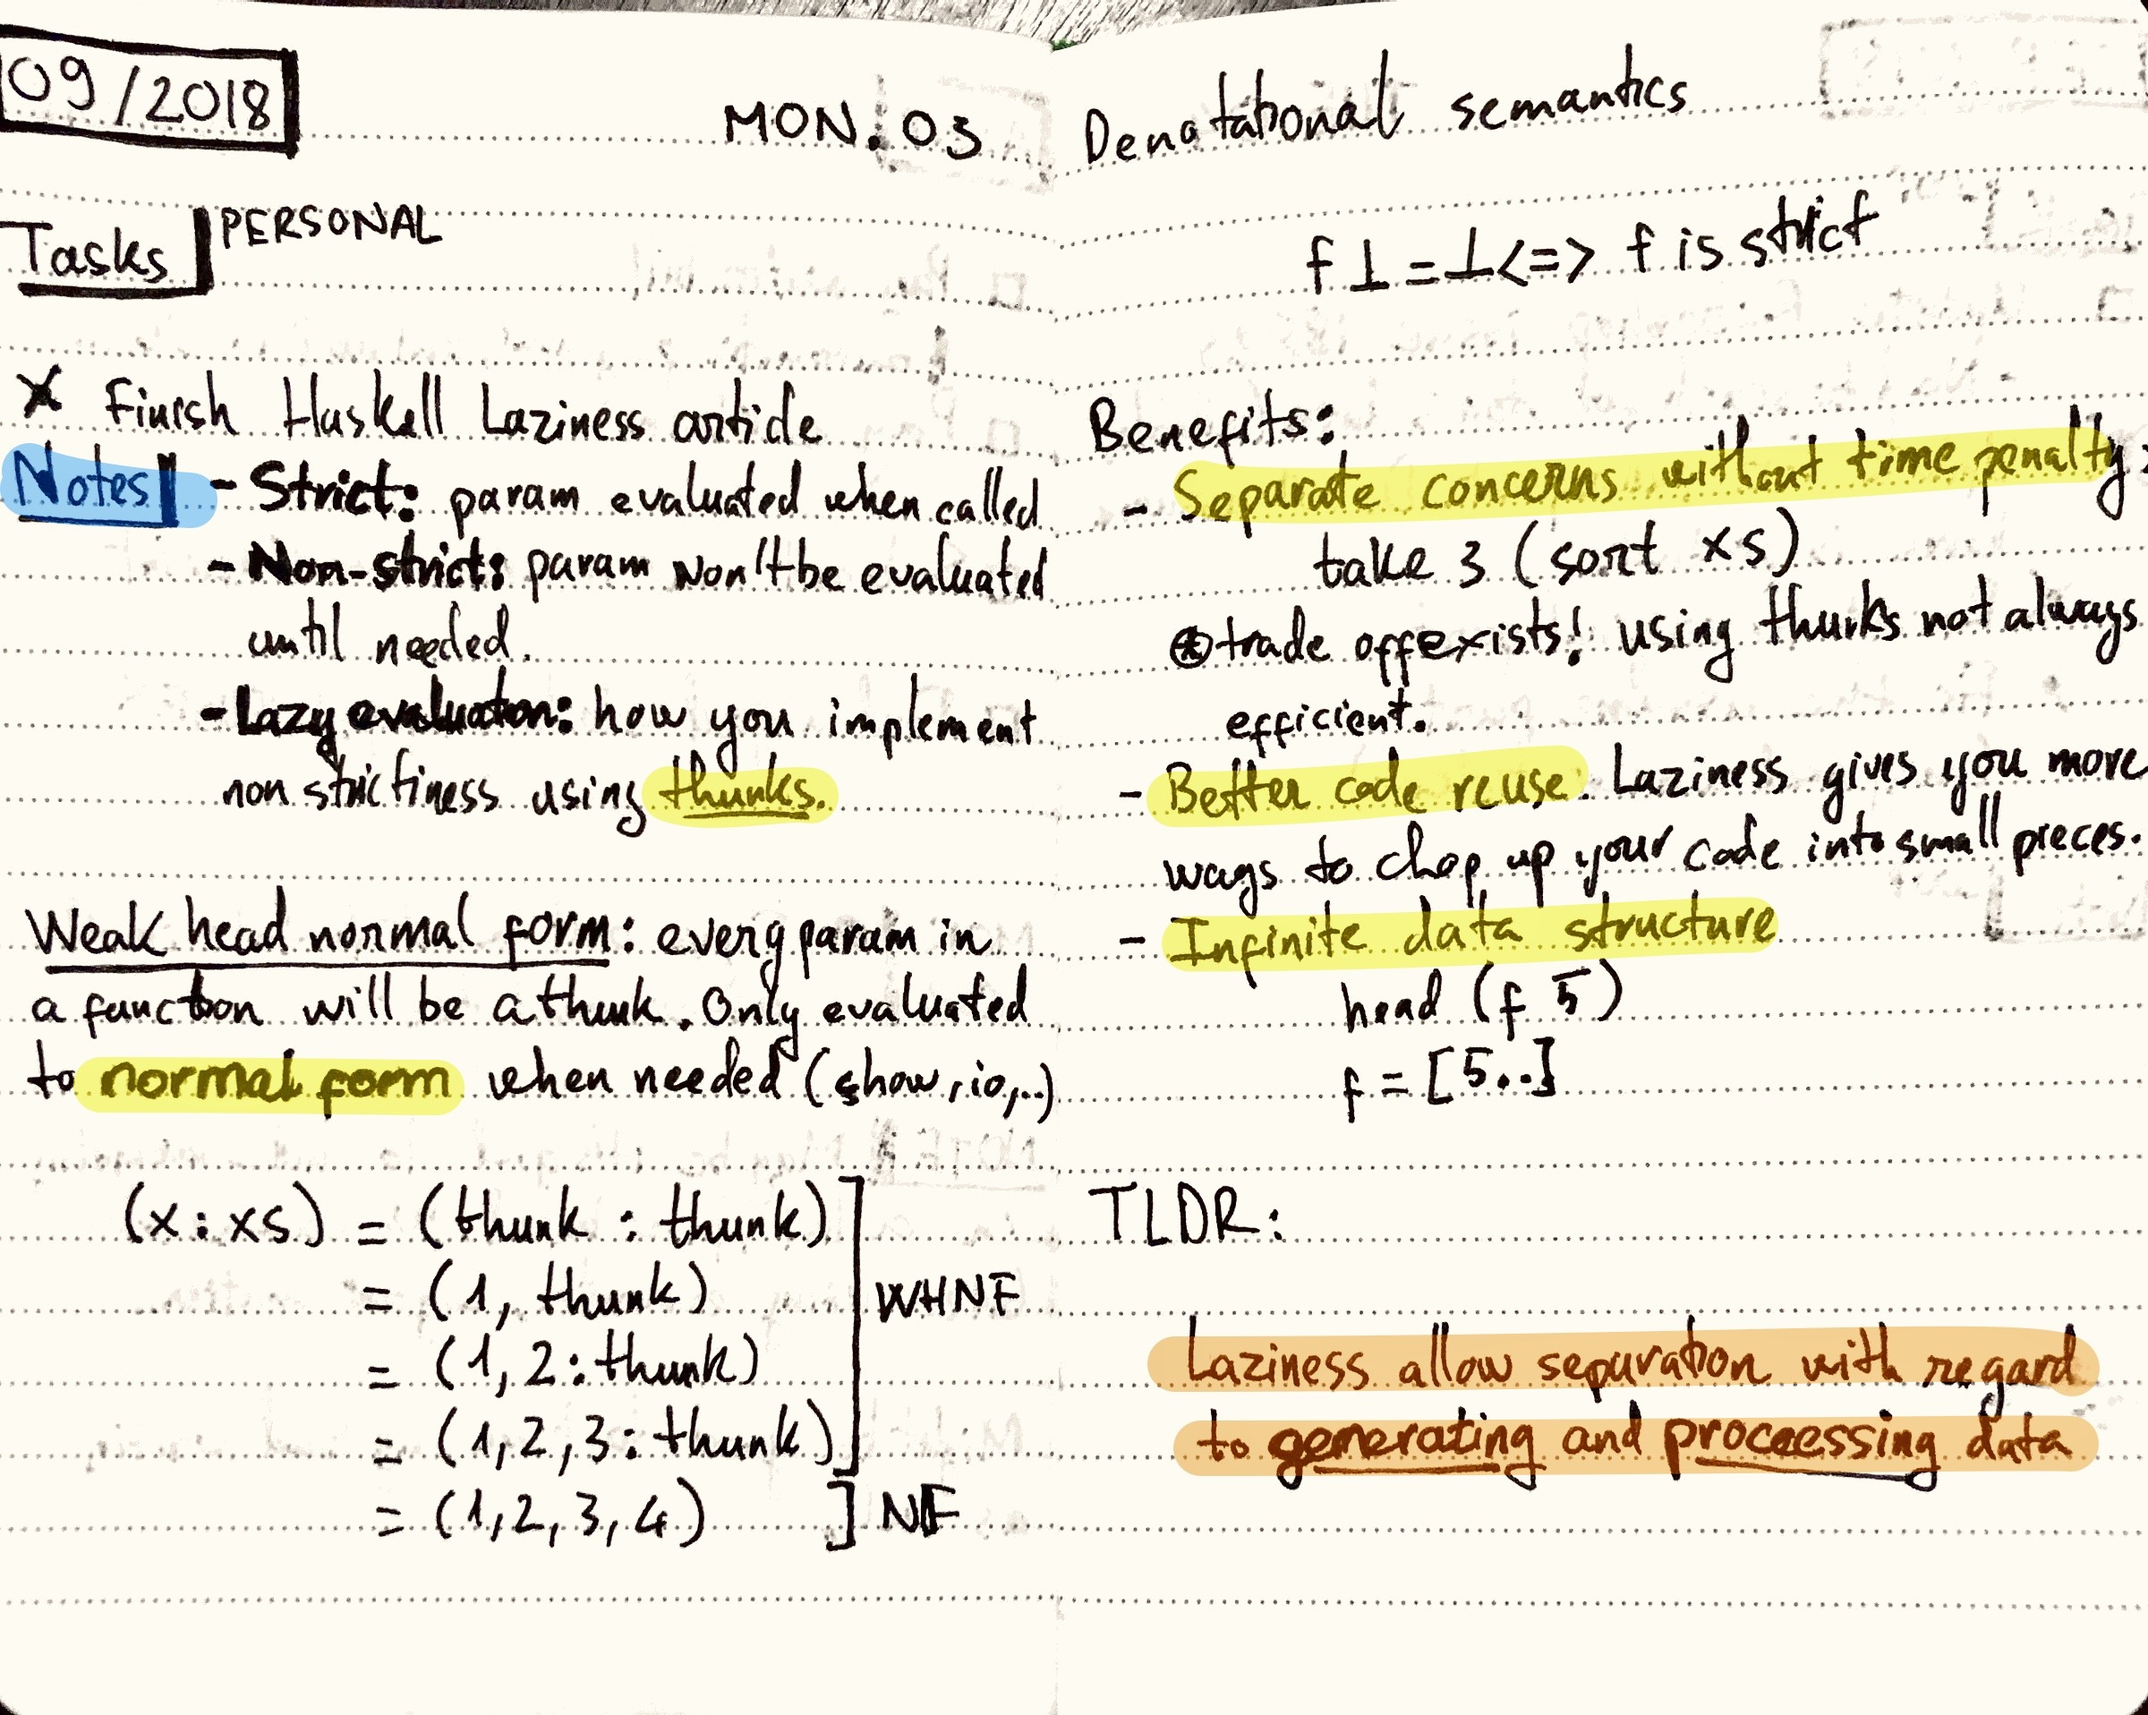
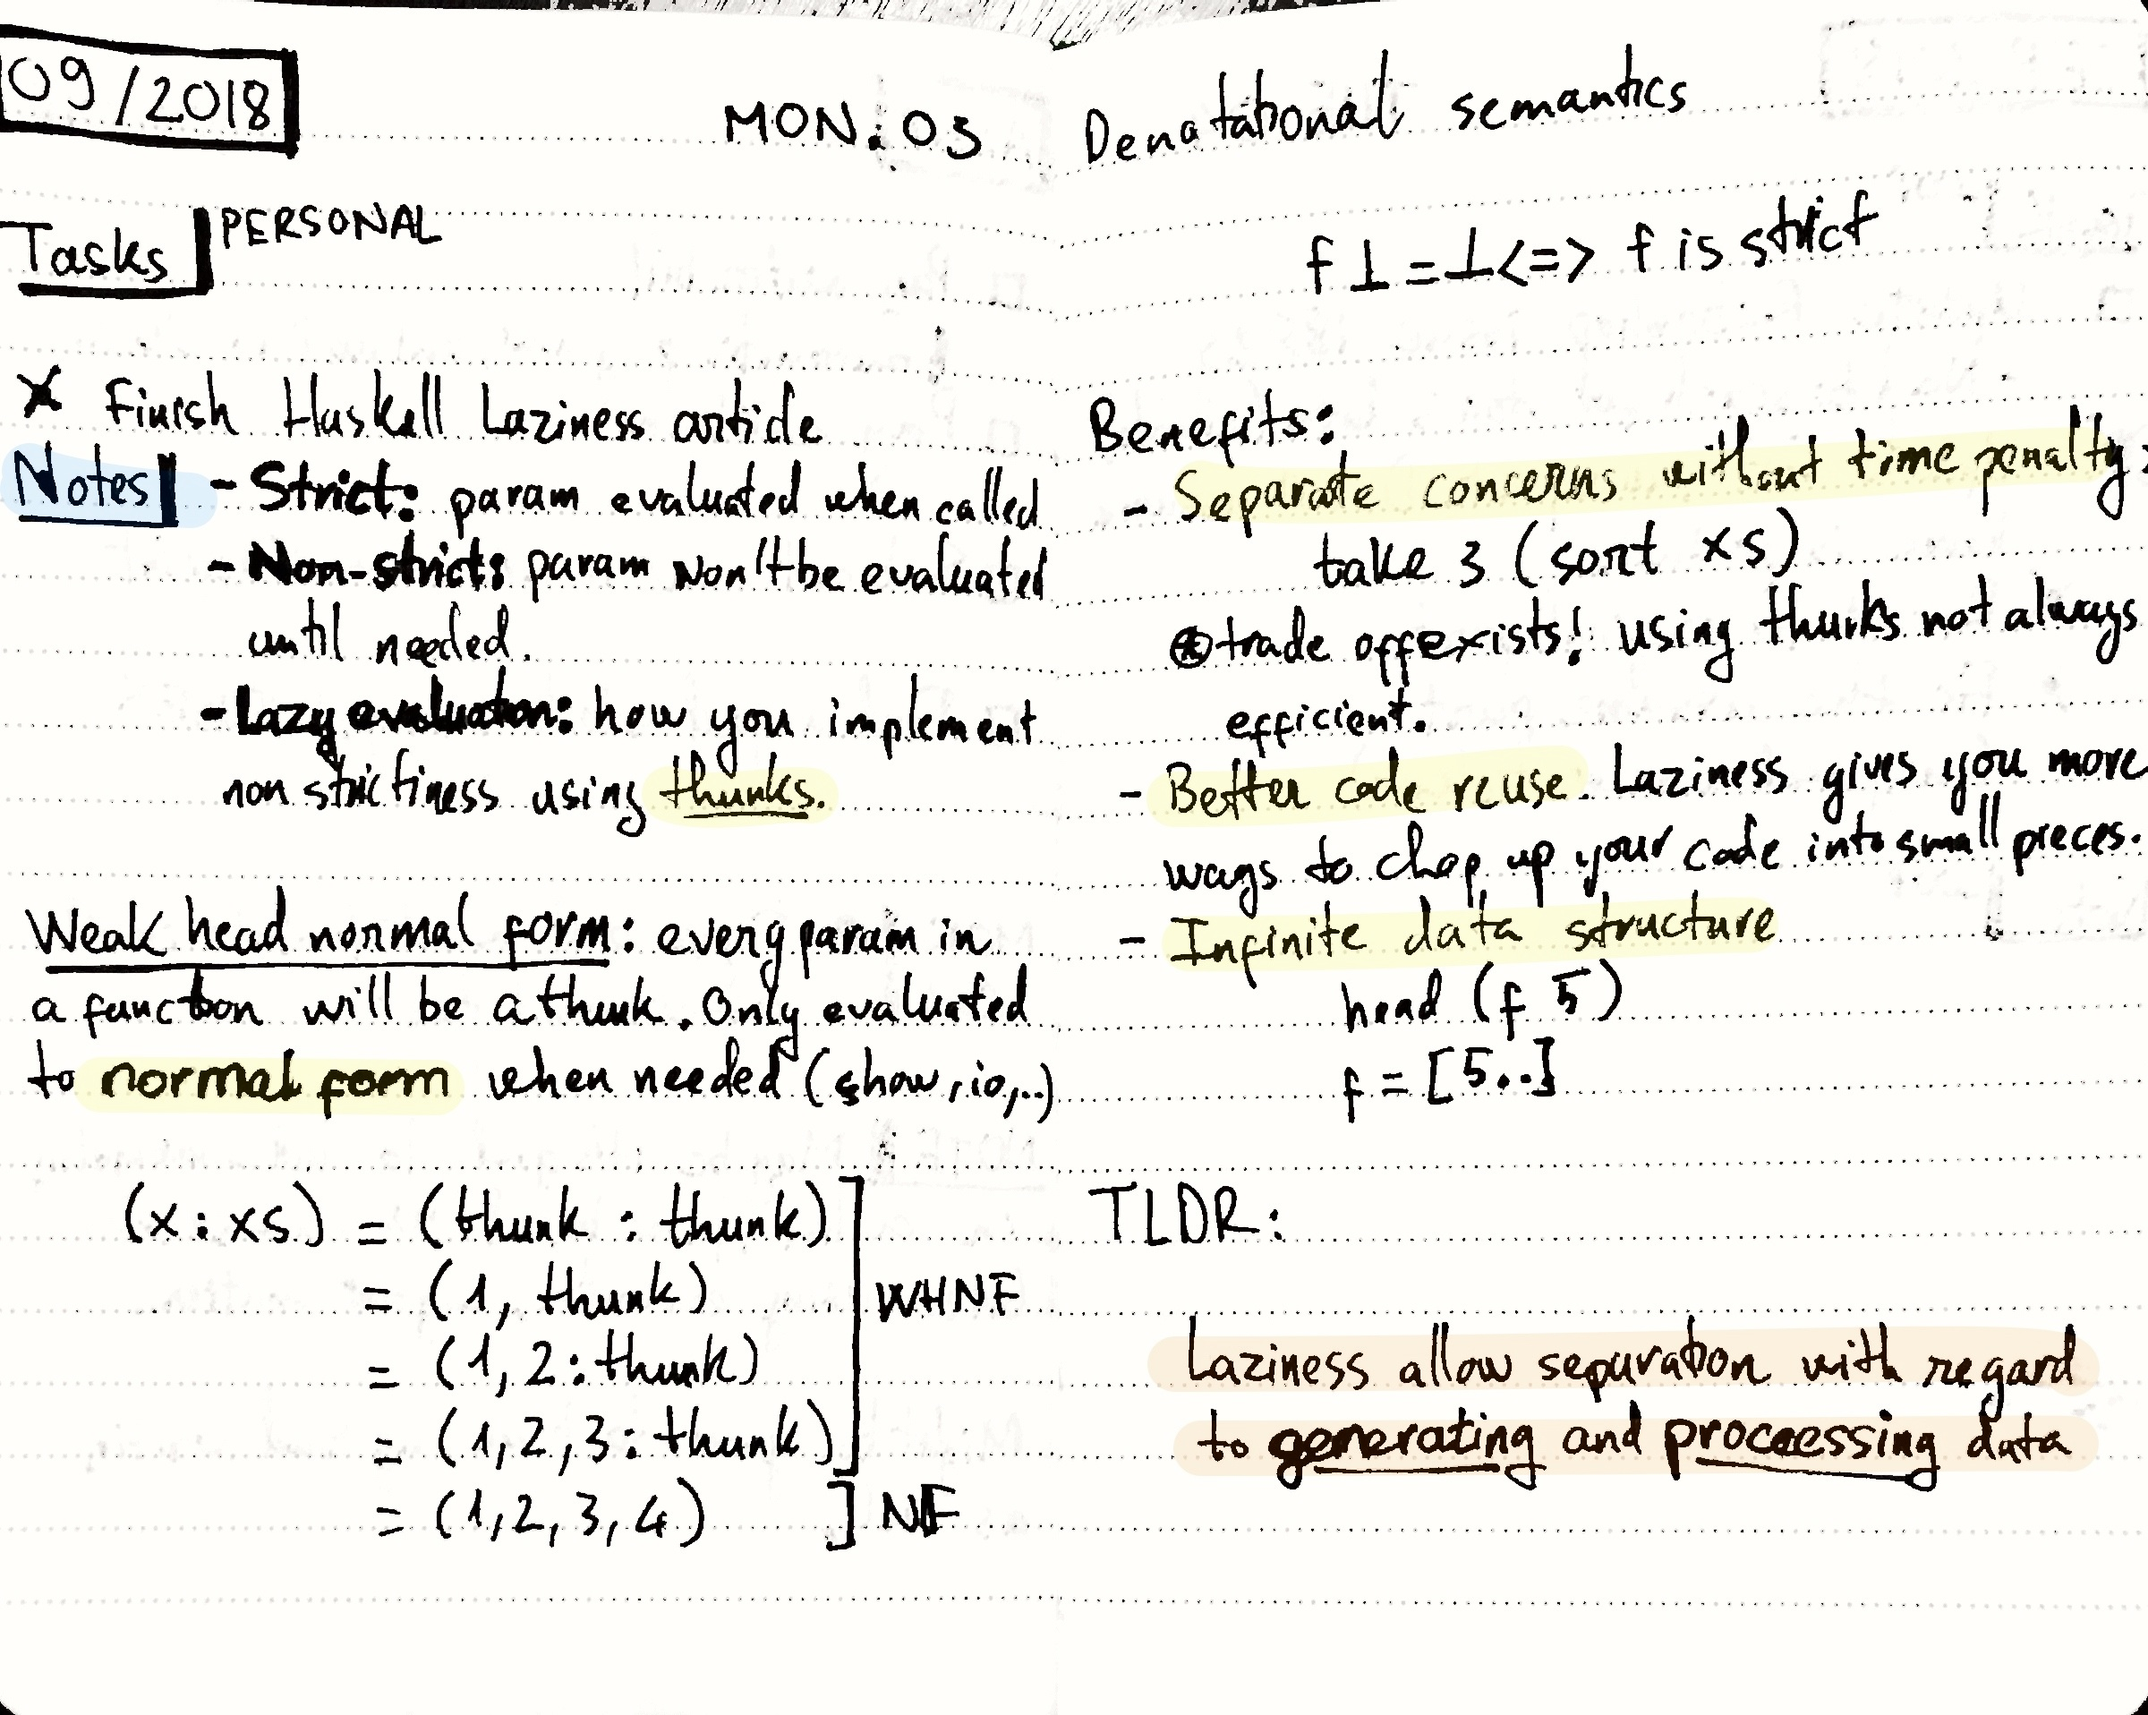
update images

diff --git a/img/clean.py b/img/clean.py
@@ -1,0 +1,22 @@
+#!/usr/local/bin/python
+import cv2
+import numpy as np
+import os
+
+name = "notes-haskell-laziness.jpg"
+
+img = cv2.imread(name)
+width, height = img.shape[:2]
+gray = cv2.imread(name, 0)
+kernel = np.ones((3, 3),np.uint8)
+gray = cv2.morphologyEx(gray, cv2.MORPH_OPEN, kernel)
+ret,thresh = cv2.threshold(gray, 90, 255, cv2.THRESH_BINARY)
+thresh = cv2.medianBlur(thresh, 3)
+cv2.imwrite('temp.jpg', thresh)
+img2 = cv2.imread('temp.jpg')
+dst = cv2.addWeighted(img, 0.8, img2, 0.2, 0)
+try:
+    os.remove('temp.jpg')
+except: pass
+
+cv2.imwrite('output_' + name, dst)
